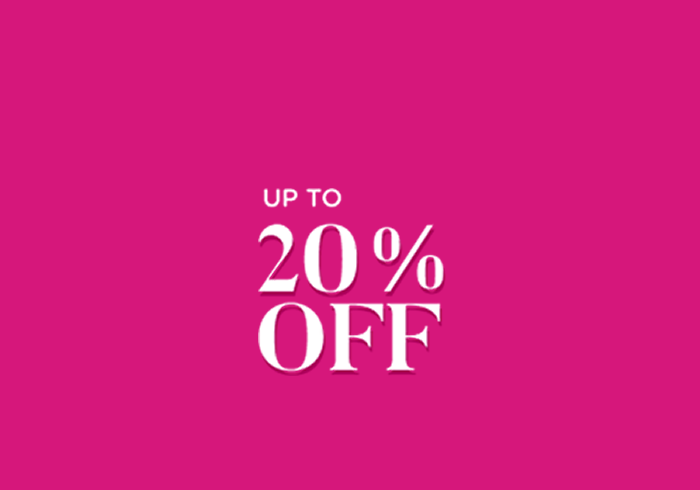
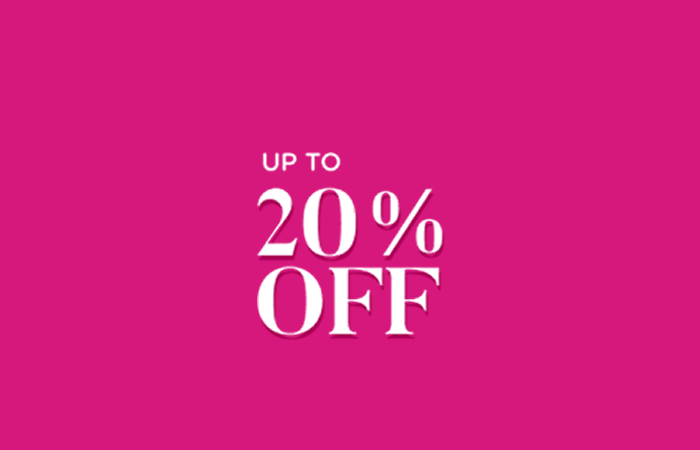
up

Changed region(s): [[0.36, 0.3422, 0.66, 0.7778]]

diff --git a/new/discount-detail.html b/new/discount-detail.html
@@ -147,13 +147,13 @@
                                 <div class="text-uppercase font-60 discount-percent">40%<br>OFF</div>
                             </div>
                         </div> -->
-                        <div class="col-6 discount-card-1">
-                            <div class="post-media p-0 text-white">
+                        <div class="col-md-6 p-0 d-none d-md-flex">
+                            <div class="post-media p-0 text-white" style="margin-top: 50px">
                             <img src="images/big.png" class="w-100">
                         </div>
                             <!-- Banner content wrap end -->
                         </div>
-                        <div class="col-6">
+                        <div class="col-md-6">
                             <div class="banner-content-wrap text-left px-3" style="z-index: 33">
                                 <div class="bread d-flex mb-4">
                                     <div class="bc font-16 px-1"><a class="text-alpher fw-500" href="index.html">Home</a></div>
